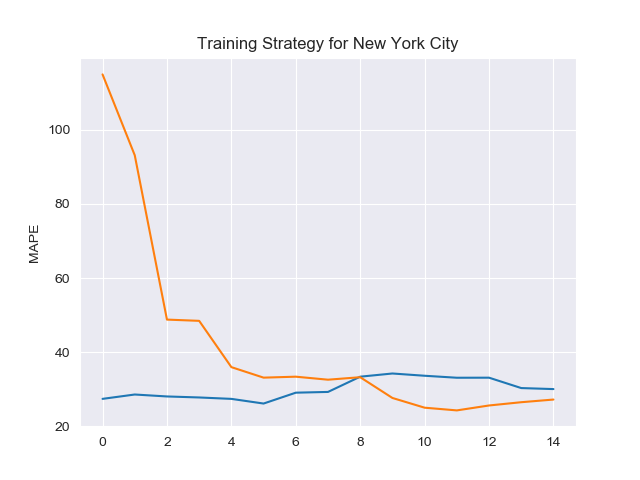
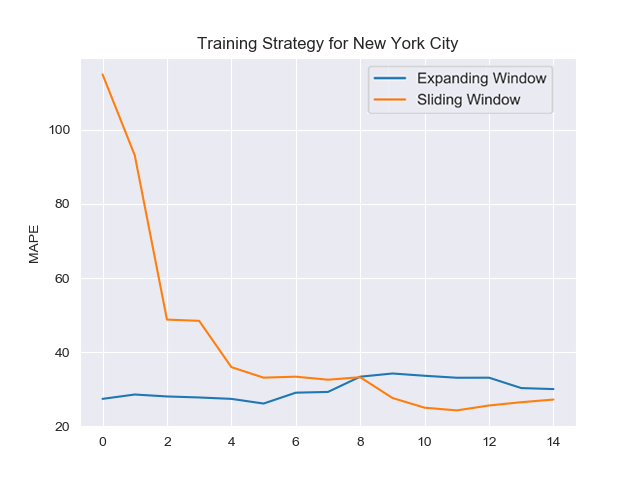
commit matto

Changed region(s): [[0.5625, 0.125, 0.875, 0.25]]

diff --git a/ARIMA_Class.py b/ARIMA_Class.py
@@ -423,6 +423,13 @@ class DataMining:
 			# plt.savefig('plots/SlidingStrategy{}'.format(self.cities[cnt].replace(" ","")))
 			cnt += 1
 
+	def ahahahahahahah(self):
+		plt.figure()
+		plt.plot(1,label='Expanding Window')
+		plt.plot(1,label='Sliding Window')
+		plt.legend()
+		plt.savefig('plots/ahahahahahaha.png',dpi=600)
+
 	def training_strategy_plotting(self):
 		self.sliding()
 		self.expanding()

diff --git a/main.py b/main.py
@@ -27,7 +27,8 @@ if __name__ == '__main__':
 	# mining.plot_data_vs_predict()
 	# mining.strategization()
 	# mining.expanding()
-	mining.training_strategy_plotting()
+	mining.ahahahahahahah()
+	# mining.training_strategy_plotting()
 	# mining.horizon()
 	# mining.sliding()
 	# mining.results_predicting(START, END)
